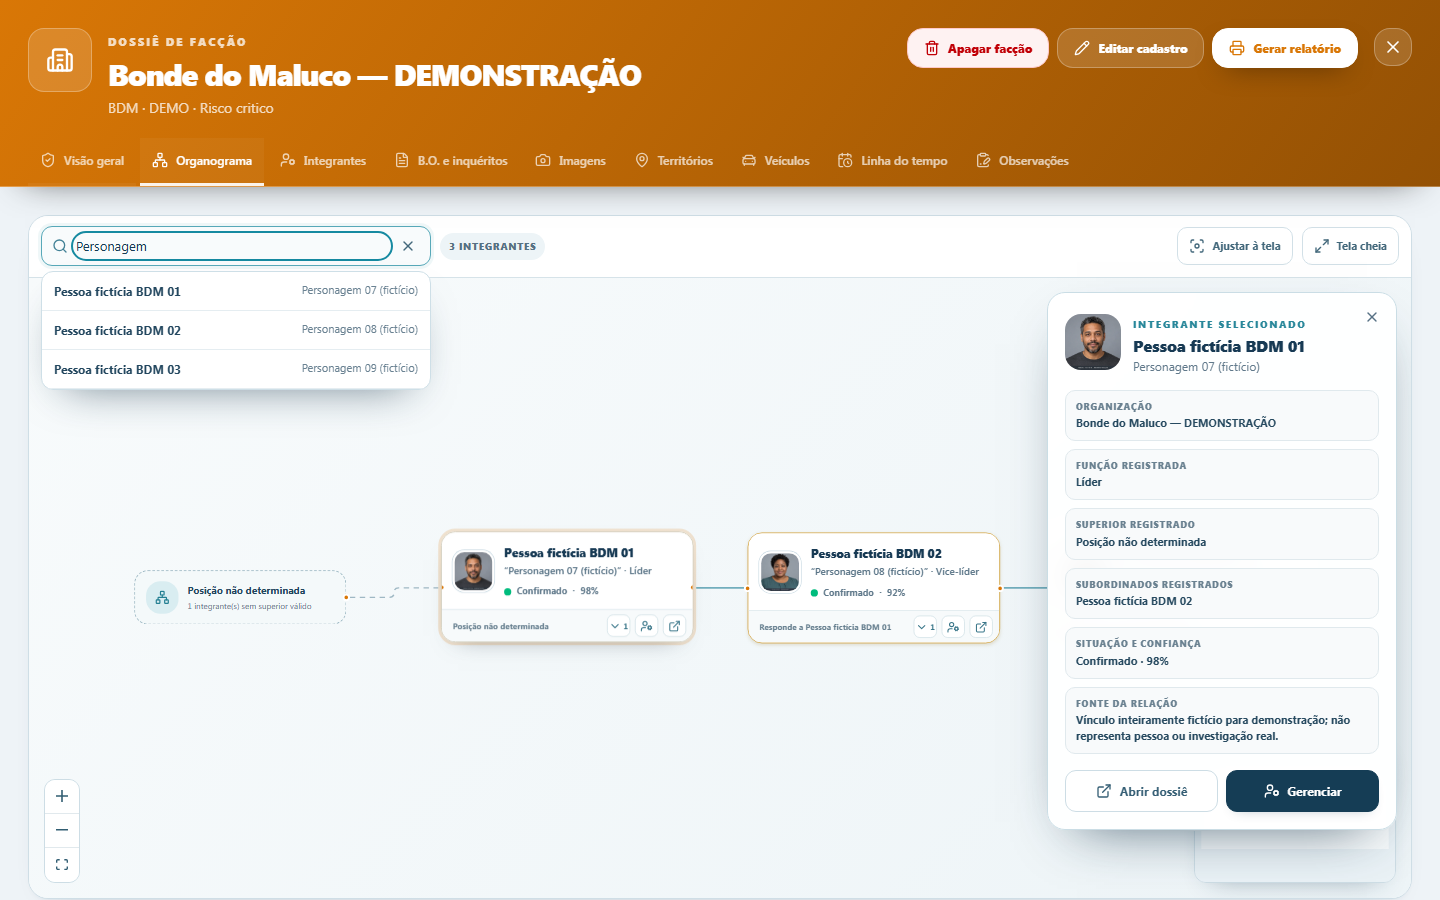
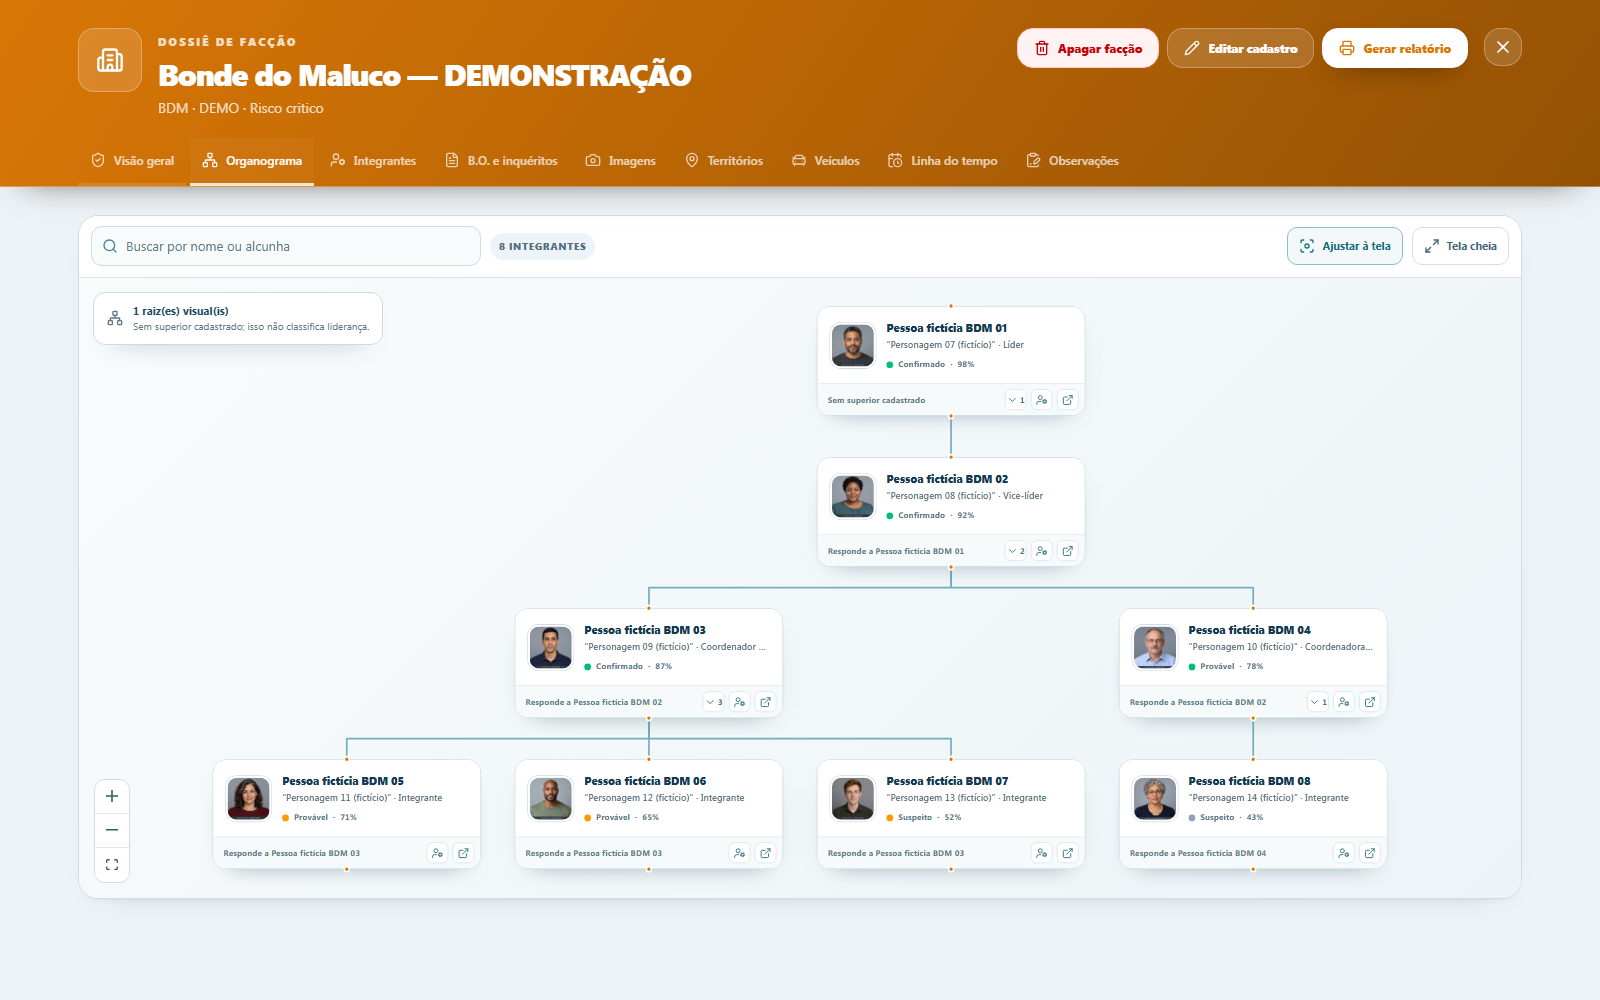
docs(nexo): atualizar evidência da árvore vertical

diff --git a/docs/nexo-organograma-fase-1-2.md b/docs/nexo-organograma-fase-1-2.md
@@ -6,16 +6,18 @@ Branch: `feature/nexo-organograma-2-fase-1-2`
 ## 1. Resumo do que foi implementado
 
 - Nova aba **Organograma** no dossiê de facção, preservando as demais abas.
-- Canvas interativo com zoom, pan, ajuste à tela, minimapa e modo tela cheia.
+- Canvas interativo com zoom, pan, ajuste à tela e modo tela cheia.
+- Árvore vertical com ramificações claras, cartões ampliados e sem nó artificial para pessoas sem superior.
 - Projeção automática dos vínculos atuais a partir de `superior_vinculo_id`.
 - Todos os integrantes elegíveis aparecem, inclusive integrantes comuns.
-- Pessoas sem superior válido ficam no agrupamento **Posição não determinada**; cargo ou ausência de superior não gera classificação automática de liderança.
+- Pessoas sem superior válido permanecem como raízes visuais marcadas **Sem superior cadastrado**; cargo ou ausência de superior não gera classificação automática de liderança.
 - Busca por nome ou alcunha com normalização de acentos, destaque, revelação de ancestrais e centralização.
 - Expansão e recolhimento de ramificações.
 - Cartões com fotografia existente, avatar neutro, identificação, função, status, confiança e atalhos.
 - Painel lateral com organização, chefia, subordinados, fonte e acesso aos fluxos atuais de dossiê e gestão.
 - Estados acessíveis de carregamento, erro e estrutura vazia.
 - Proteção contra dados legados anômalos na projeção: ciclos e superiores inválidos não travam a tela nem ocultam integrantes.
+- Preview local ampliado para oito personagens fictícios por organização, com três níveis e múltiplas ramificações.
 
 O canvas é somente de visualização nesta entrega. Nenhuma movimentação visual altera chefia ou persiste dados.
 
@@ -65,7 +67,7 @@ O checkout não possui projeto Supabase vinculado e a máquina não possui Docke
 | `pnpm test`                             | 75 arquivos e 531 testes aprovados                        |
 | `pnpm exec tsc --noEmit`                | Aprovado                                                  |
 | `pnpm build` com URL/chave local inerte | Aprovado                                                  |
-| `pnpm test:bundle`                      | NEXO 675.821 bytes, abaixo do limite de 850.000           |
+| `pnpm test:bundle`                      | NEXO 675.888 bytes, abaixo do limite de 850.000           |
 | `pnpm test:migrations`                  | 15 testes aprovados                                       |
 | `pnpm test:schema`                      | 122/122 migrations, DDL e probes concluídos               |
 | `pnpm test:schema-parity`               | 3 testes aprovados                                        |
@@ -103,7 +105,7 @@ pnpm dev --host 127.0.0.1 --port 4173
 1. Abra `http://127.0.0.1:4173/preview/nexo`.
 2. Entre em **Facções** e abra um dossiê demonstrativo.
 3. Selecione a aba **Organograma**.
-4. Teste zoom, pan, ajuste à tela, minimapa, busca, seleção, recolhimento de ramo e tela cheia.
+4. Teste zoom, pan, ajuste à tela, busca, seleção, recolhimento de ramo e tela cheia.
 5. Confirme que **Abrir dossiê** e **Gerenciar** usam os fluxos existentes.
 
 ## 10. Próxima etapa recomendada
